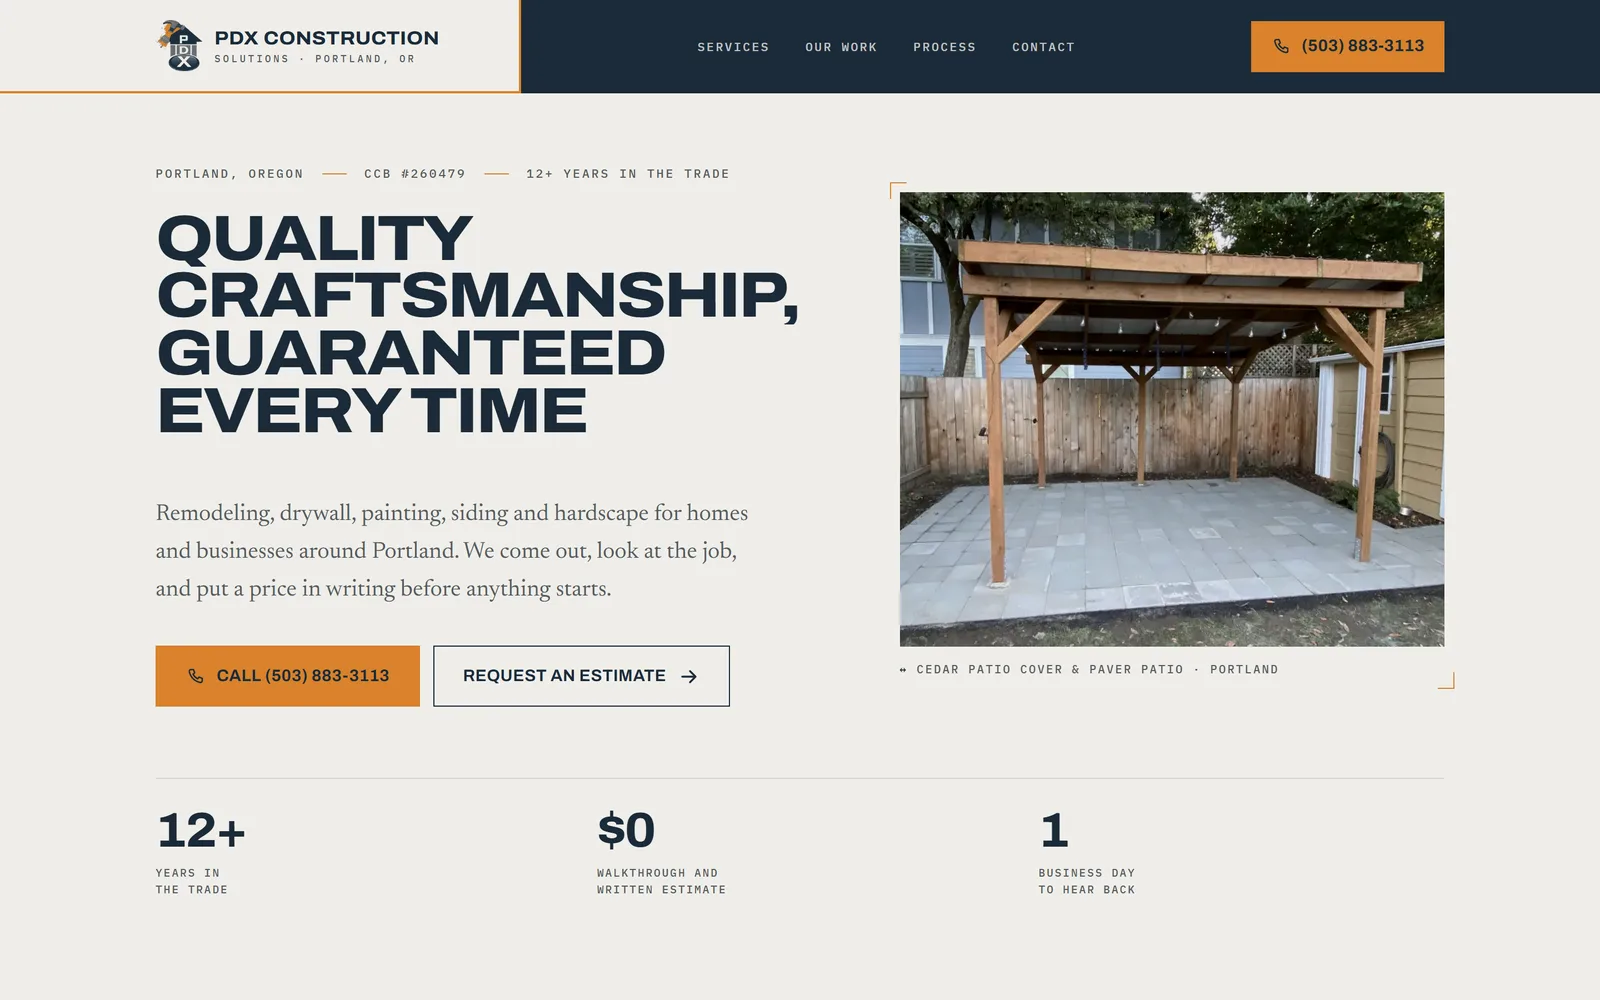
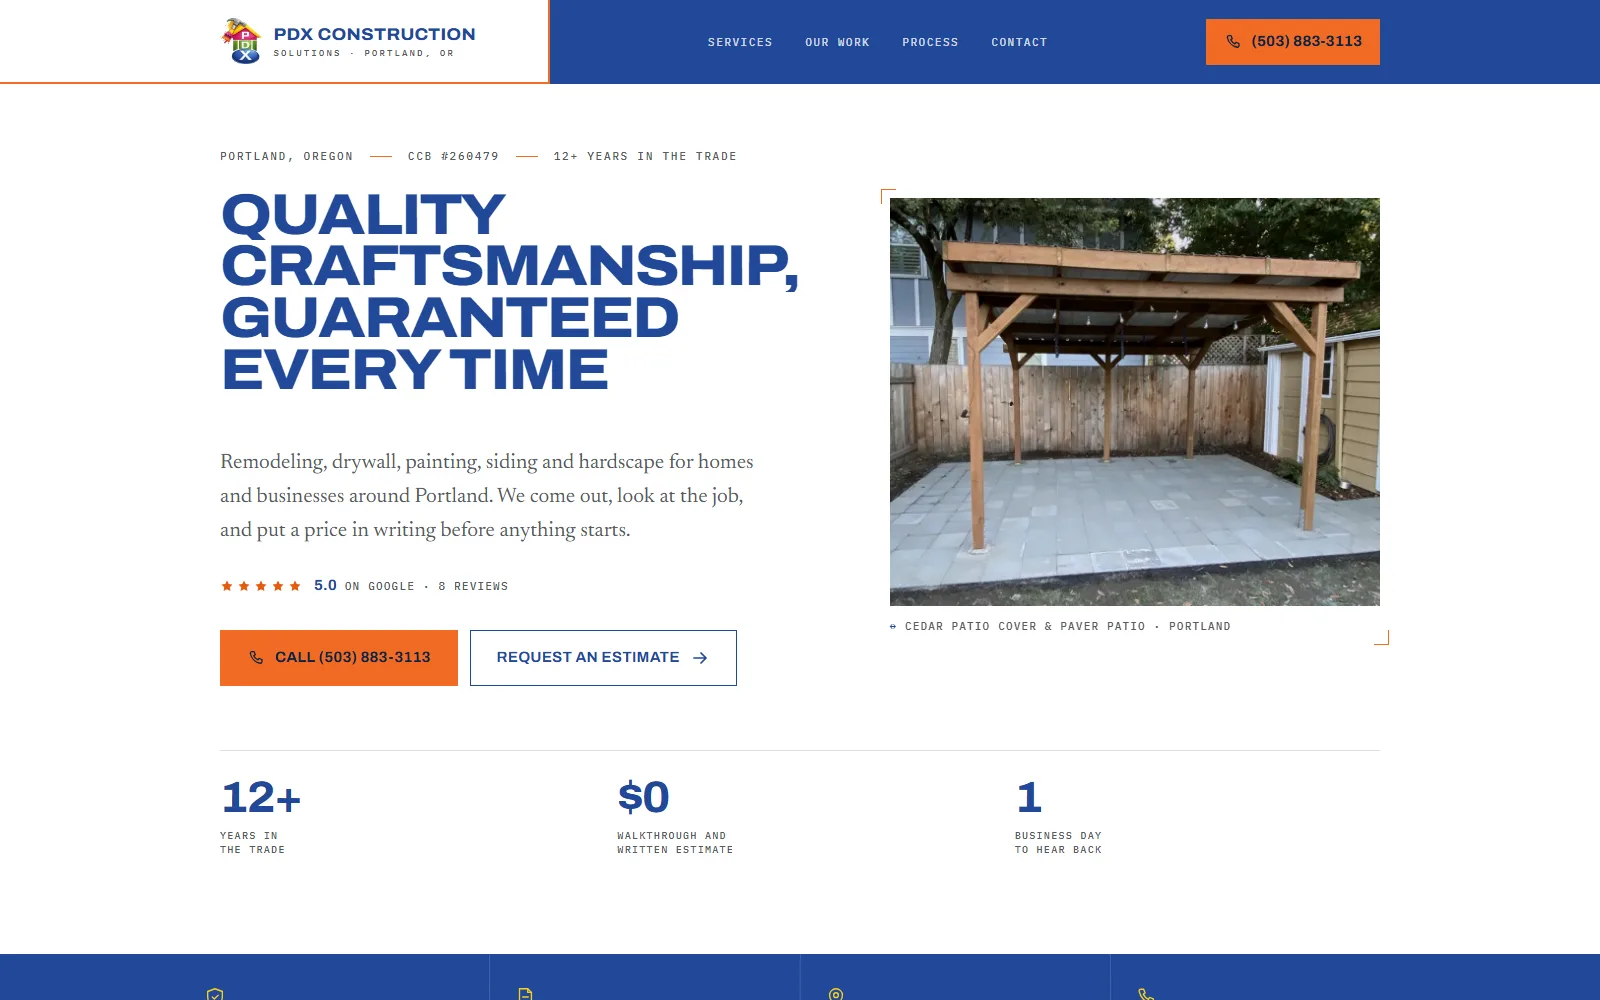
Add Belleroph Rope Access and refresh two portfolio screenshots
Belleroph joins the portfolio, and PDX Construction Solutions and
Wholeheart Home get new screenshots of their redesigned sites.

diff --git a/src/lib/projects.ts b/src/lib/projects.ts
@@ -107,6 +107,16 @@ export const WEBSITE_PROJECTS: Project[] = [
     url: "https://www.newbergpetcremation.com",
     display: "newbergpetcremation.com",
   },
+  {
+    slug: "belleroph",
+    name: "Belleroph Rope Access",
+    category: "Commercial Window Cleaning",
+    location: "Seattle, WA",
+    description:
+      "Rope access window cleaning for commercial buildings across Seattle — high-rise glass cleaned with no lifts or scaffolding.",
+    url: "https://www.belleroph.net",
+    display: "belleroph.net",
+  },
 ];
 
 export function projectImage(slug: string) {
